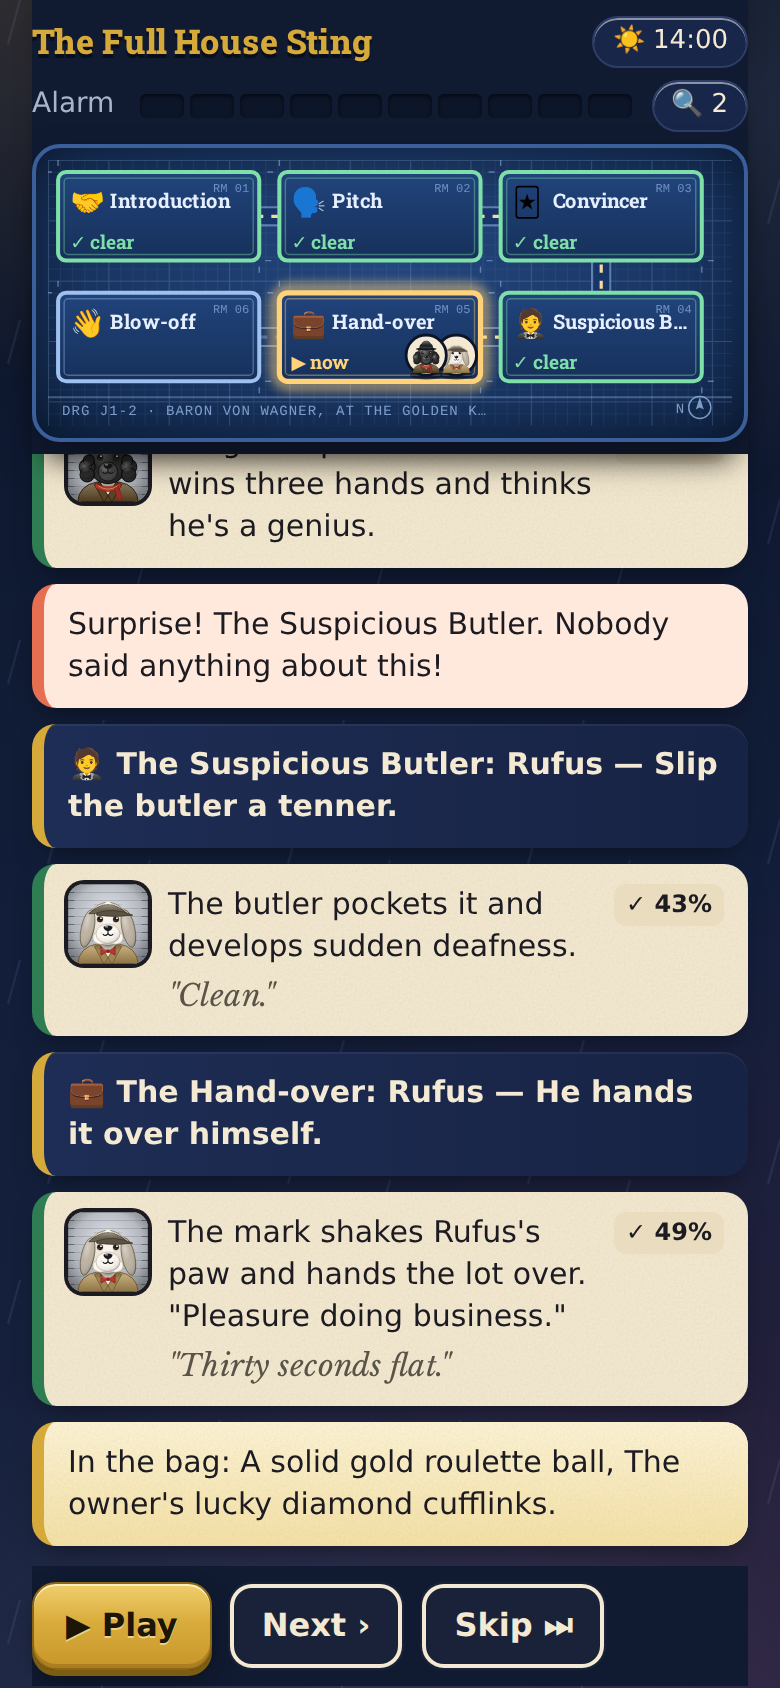
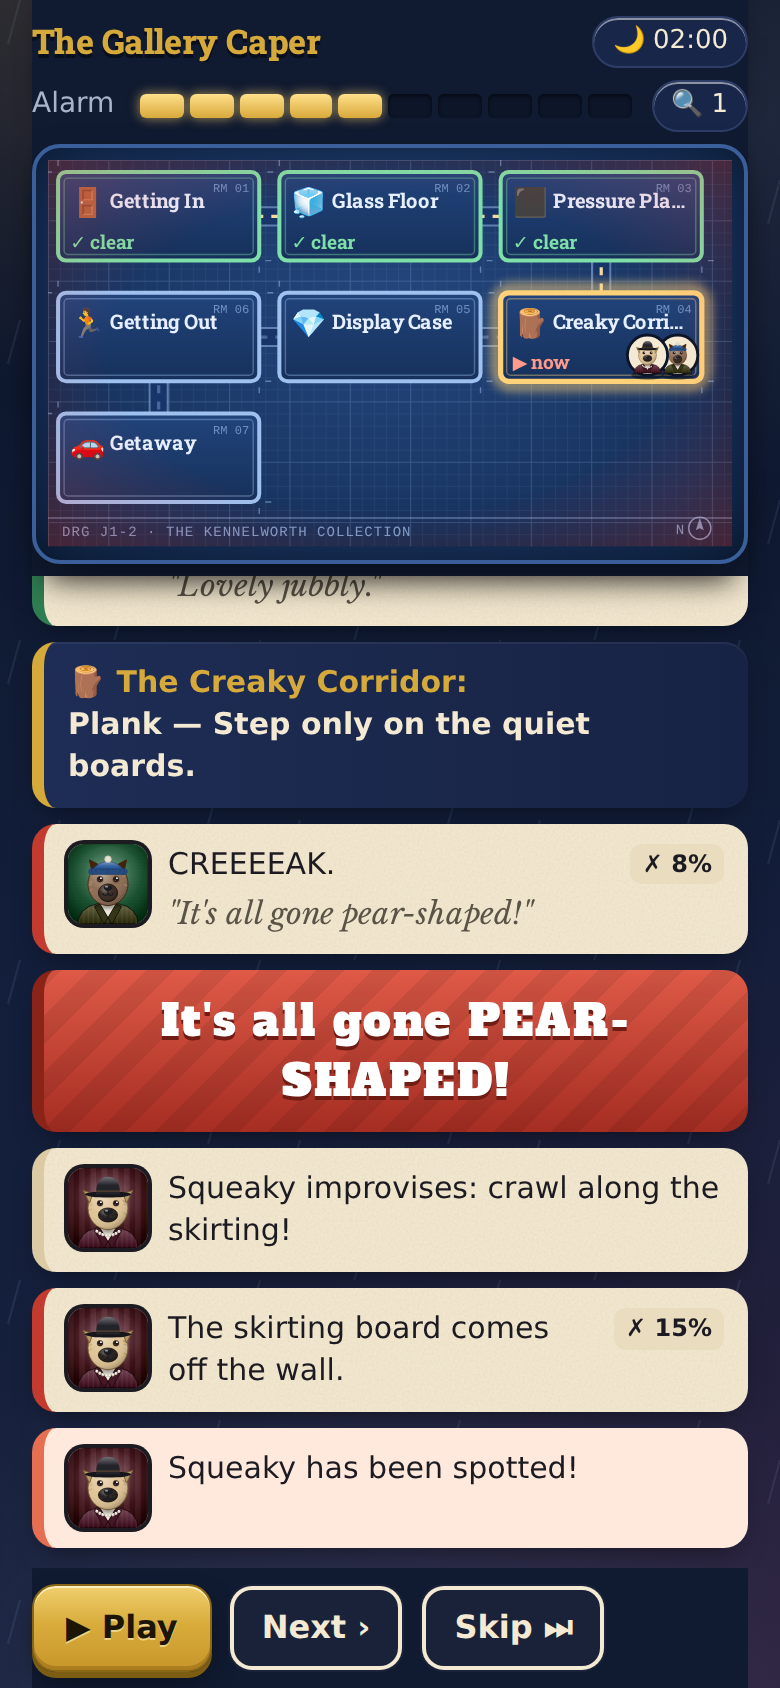
Heist log: each step's name on its own line
Claude-Session: https://claude.ai/code/session_0119DQBJUjuLkFW8ZZge45qz

diff --git a/src/ui.js b/src/ui.js
@@ -665,10 +665,17 @@ function patchHeist(G) {
   return true;
 }
 
+// A step's header reads "🚪 Getting In: Biscuits — Pick the lock." The step gets its own line.
+function beatText(b) {
+  const at = b.kind === 'stage' ? b.text.indexOf(': ') : -1;
+  if (at < 0) return esc(b.text);
+  return `<span class="phase">${esc(b.text.slice(0, at + 1))}</span>${esc(b.text.slice(at + 2))}`;
+}
+
 function beatHTML(G, b, latest) {
   const d = b.dog ? G.state.dogs[b.dog] : null;
   const pct = b.p != null ? `<span class="pct">${b.kind === 'ok' ? '✓' : '✗'} ${Math.round(b.p * 100)}%</span>` : '';
-  return `<div class="beat ${b.kind}" ${latest ? 'data-latest' : ''}>${d && b.kind !== 'stage' ? `<div class="mini">${portraitHTML(d, { size: 40 })}</div>` : ''}<div class="txt">${esc(b.text)}${b.line ? `<div class="line">"${esc(b.line)}"</div>` : ''}</div>${pct}</div>`;
+  return `<div class="beat ${b.kind}" ${latest ? 'data-latest' : ''}>${d && b.kind !== 'stage' ? `<div class="mini">${portraitHTML(d, { size: 40 })}</div>` : ''}<div class="txt">${beatText(b)}${b.line ? `<div class="line">"${esc(b.line)}"</div>` : ''}</div>${pct}</div>`;
 }
 
 function blueprintSVG(G, shown) {

diff --git a/styles.css b/styles.css
@@ -429,6 +429,7 @@ button.stat { font: inherit; color: inherit; cursor: pointer; }
 .beat.betray, .beat.interrogation { border-left-color: var(--purple); }
 .beat.good, .beat.escape, .beat.luck { border-left-color: var(--blue); }
 .beat.stage { background: linear-gradient(90deg, #1e2d55, #172344); color: var(--paper); border-left-color: var(--brass); font-weight: 700; box-shadow: inset 0 1px 0 rgba(255, 255, 255, .06), 0 6px 14px -6px rgba(0, 0, 0, .55); }
+.beat.stage .phase { display: block; color: var(--brass); }
 .beat.intro, .beat.end, .beat.omen { background: var(--rain), linear-gradient(180deg, #1d1c26, #121118); color: var(--paper); font-family: var(--font-quote); font-style: italic; border-left-color: #555; }
 .beat.surprise, .beat.chaos { border-left-color: #e76f51; background: #ffe9dc; }
 .heist-controls { position: sticky; bottom: 0; background: var(--night); padding: 8px 0 calc(8px + env(safe-area-inset-bottom)); display: flex; gap: 8px; z-index: 5; }

diff --git a/src/version.js b/src/version.js
@@ -1,3 +1,3 @@
 // The game's version, shown in the help panel. Keep package.json's "version" in step
 // (tests/version.test.mjs checks). Bump it with each release to main.
-export const VERSION = '0.18.0';
+export const VERSION = '0.18.1';

diff --git a/notes/progress.md b/notes/progress.md
@@ -92,7 +92,11 @@ report 0 (DOM/SVG renderer), `renderer` is the WebGL renderer string, `contextLo
 - Job board venue illustrations; title skyline; blueprint with corridors, walked route, pulsing current room, red alarm wash, siren lights when the police arrive, and a drawing title block.
 - Before/after captures: `notes/captures/before-gfx/` vs `notes/captures/`.
 
-## Reputation harder to max; masters answer a bigger name (latest, 0.18.0)
+## Heist step headers on two lines (latest, 0.18.1)
+
+- A step's beat ("🚪 Getting In: Biscuits — Pick the lock.") renders the step name on its own line in brass (`beatText` in ui.js, `.beat.stage .phase`). Display only: the beat text is unchanged, so tests and recaps are unaffected. Smoke 1 checks every step header on the real play-through has its own `.phase` line.
+
+## Reputation harder to max; masters answer a bigger name (0.18.0)
 
 - **Taper:** `repGain` in util.js. Record gains are full below 40, then scale by `((100 - rep) / 60) ^ 1.5` (≈0.54 at 60, 0.27 at 80, 0.07 at 90, 0 at 100). Losses hit in full. Generosity's part of the score isn't tapered (it's bounded ±15 anyway). `addRep` now returns the change actually made; lines that quote a rep gain use `repNote(d)`.
 - **Expectations:** `repExpected` in engine.js marks every graded job down 1 from 50 rep, 2 from 70, 3 from 85 (applied before the taper; F at 90 costs 7). The aftermath grade card says "A big name: they expect more of you now."
